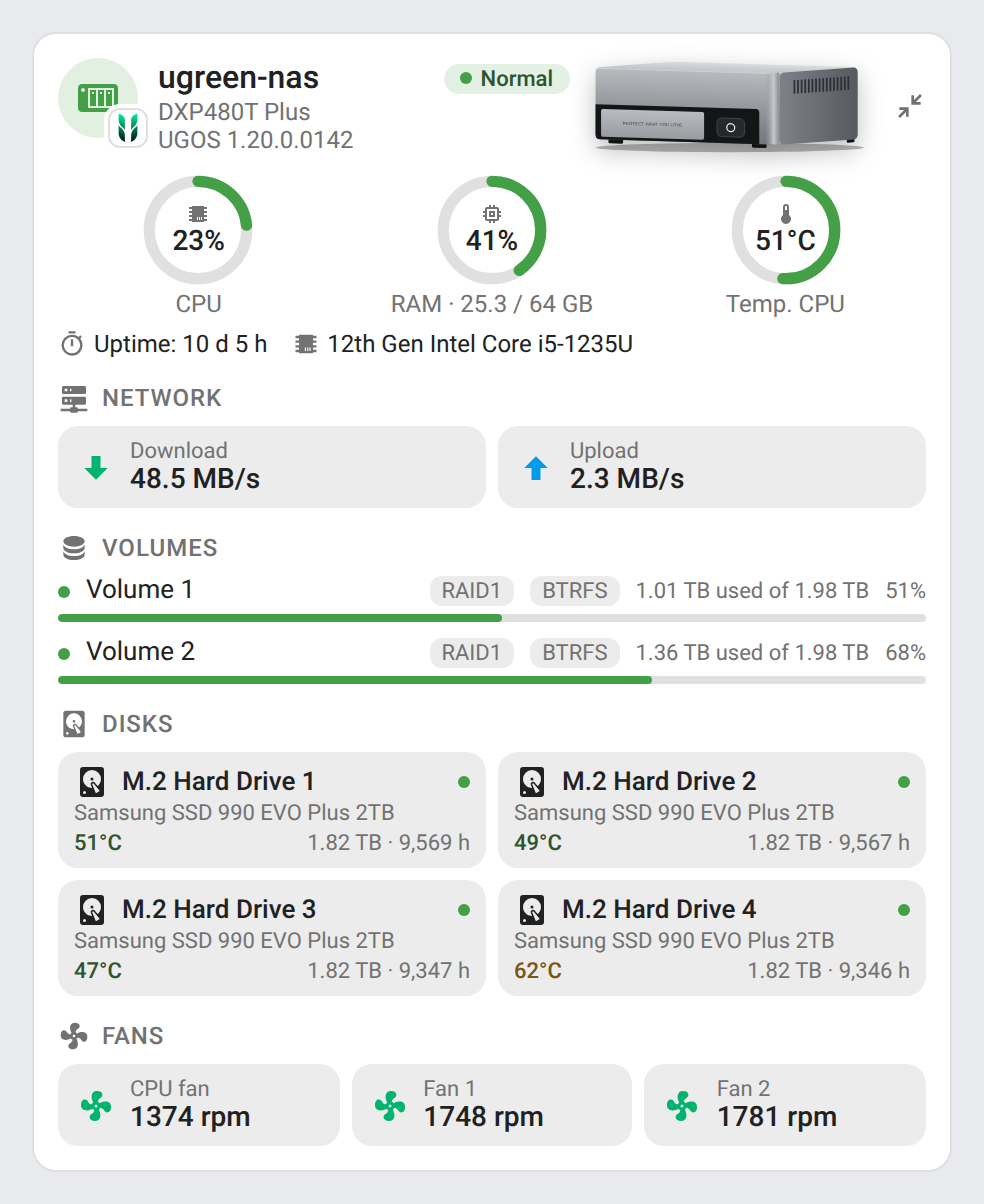
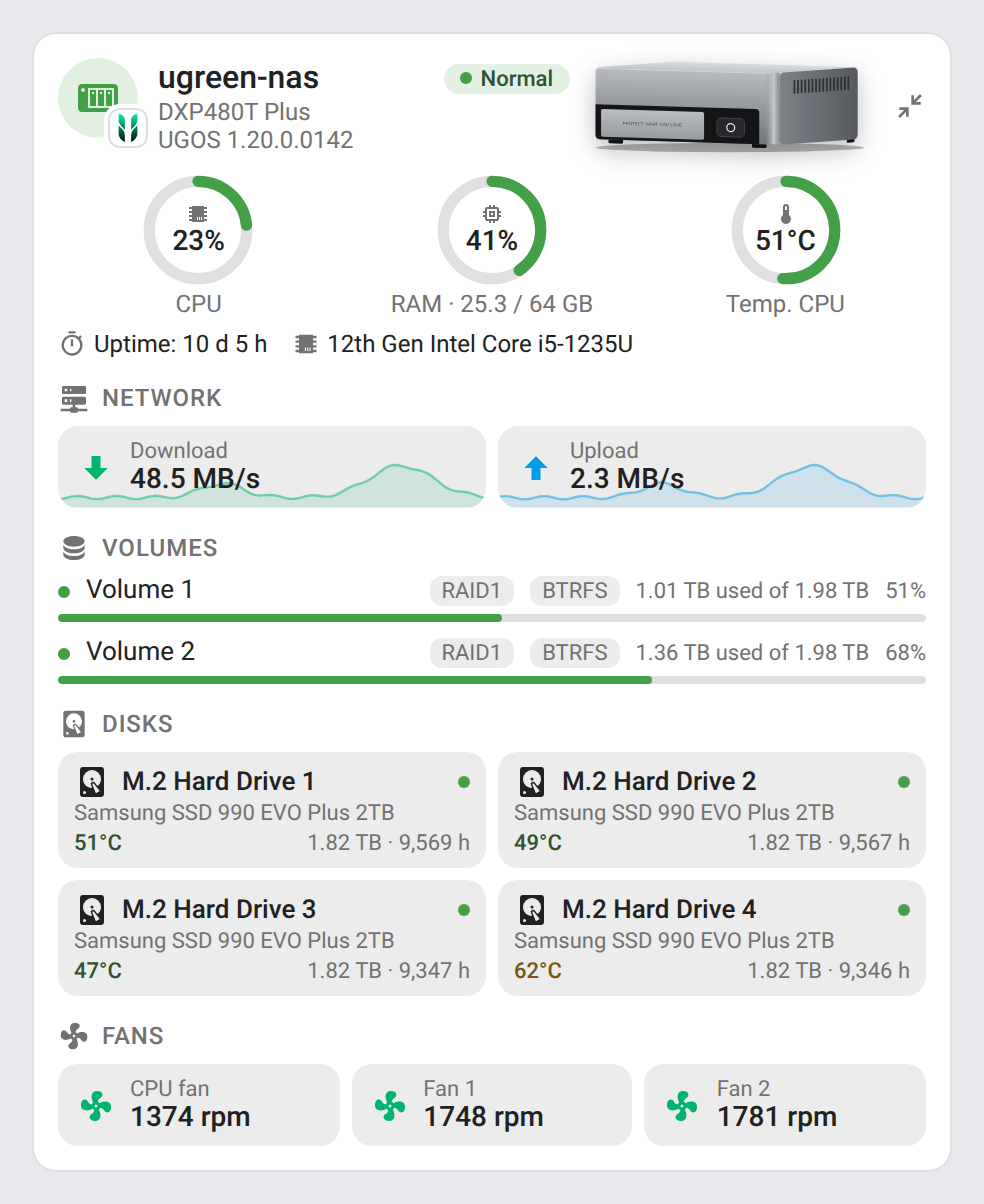
feat: 24 h history behind the network rate tiles (#60)
The full card draws the last 24 hours of download / upload behind each
network tile.

- Recorder `statistics_during_period`, 5-minute means, refreshed every 5
minutes (retries after 1 min on error)
- `show_history: false` turns it off (editor toggle, 22 languages)
- Screenshot mock answers the statistics query
- Version 1.15.0

---
_Generated by [Claude
Code](https://claude.ai/code/session_01F4sAn1Ek4h88w9whpdhjW8)_

---------

Changed region(s): [[0.061, 0.3688, 0.4878, 0.4302], [0.5183, 0.3688, 0.9451, 0.4302]]

diff --git a/src/nas-card.js b/src/nas-card.js
@@ -66,6 +66,7 @@ const STRINGS = {
     show_volumes: "Show volumes",
     show_disks: "Show disks",
     show_fans: "Show fans",
+    show_history: "Show 24 h rate history",
     show_storage: "Show storage",
     zoom: "Zoom button",
     zoom_helper: "Switches the mini card to the full card and back",
@@ -116,6 +117,7 @@ const STRINGS = {
     show_volumes: "Afficher les volumes",
     show_disks: "Afficher les disques",
     show_fans: "Afficher les ventilateurs",
+    show_history: "Afficher l’historique 24 h des débits",
     show_storage: "Afficher le stockage",
     zoom: "Bouton zoom",
     zoom_helper: "Bascule la mini-carte en carte complète, et inversement",
@@ -166,6 +168,7 @@ const STRINGS = {
     show_volumes: "Volumes anzeigen",
     show_disks: "Laufwerke anzeigen",
     show_fans: "Lüfter anzeigen",
+    show_history: "24-h-Verlauf der Raten anzeigen",
     show_storage: "Speicher anzeigen",
     zoom: "Zoom-Schaltfläche",
     zoom_helper: "Wechselt von der Mini-Karte zur vollständigen Karte und zurück",
@@ -216,6 +219,7 @@ const STRINGS = {
     show_volumes: "Mostrar los volúmenes",
     show_disks: "Mostrar los discos",
     show_fans: "Mostrar los ventiladores",
+    show_history: "Mostrar el historial de 24 h de las velocidades",
     show_storage: "Mostrar el almacenamiento",
     zoom: "Botón de zoom",
     zoom_helper: "Cambia la minitarjeta a la tarjeta completa y viceversa",
@@ -266,6 +270,7 @@ const STRINGS = {
     show_volumes: "Прикажи волумене",
     show_disks: "Прикажи дискове",
     show_fans: "Прикажи вентилаторе",
+    show_history: "Прикажи историју протока за 24 ч",
     show_storage: "Прикажи складиште",
     zoom: "Дугме за увећање",
     zoom_helper: "Пребацује мини картицу на пун приказ и назад",
@@ -316,6 +321,7 @@ const STRINGS = {
     show_volumes: "Prikaži volumene",
     show_disks: "Prikaži diskove",
     show_fans: "Prikaži ventilatore",
+    show_history: "Prikaži istoriju protoka za 24 č",
     show_storage: "Prikaži skladište",
     zoom: "Dugme za uvećanje",
     zoom_helper: "Prebacuje mini karticu na pun prikaz i nazad",
@@ -366,6 +372,7 @@ const STRINGS = {
     show_volumes: "Mostra i volumi",
     show_disks: "Mostra i dischi",
     show_fans: "Mostra le ventole",
+    show_history: "Mostra lo storico 24 h delle velocità",
     show_storage: "Mostra l'archiviazione",
     zoom: "Pulsante zoom",
     zoom_helper: "Passa dalla mini scheda alla scheda completa e viceversa",
@@ -416,6 +423,7 @@ const STRINGS = {
     show_volumes: "Volumes weergeven",
     show_disks: "Schijven weergeven",
     show_fans: "Ventilatoren weergeven",
+    show_history: "24-uursgeschiedenis van de snelheden weergeven",
     show_storage: "Opslag weergeven",
     zoom: "Zoomknop",
     zoom_helper: "Schakelt de minikaart over naar de volledige kaart en terug",
@@ -466,6 +474,7 @@ const STRINGS = {
     show_volumes: "Mostrar os volumes",
     show_disks: "Mostrar os discos",
     show_fans: "Mostrar as ventoinhas",
+    show_history: "Mostrar o histórico de 24 h dos débitos",
     show_storage: "Mostrar o armazenamento",
     zoom: "Botão de zoom",
     zoom_helper: "Alterna o minicartão para o cartão completo e vice-versa",
@@ -516,6 +525,7 @@ const STRINGS = {
     show_volumes: "Pokaż woluminy",
     show_disks: "Pokaż dyski",
     show_fans: "Pokaż wentylatory",
+    show_history: "Pokaż historię przepustowości z 24 h",
     show_storage: "Pokaż pamięć masową",
     zoom: "Przycisk powiększenia",
     zoom_helper: "Przełącza minikartę na pełną kartę i z powrotem",
@@ -566,6 +576,7 @@ const STRINGS = {
     show_volumes: "Afișează volumele",
     show_disks: "Afișează discurile",
     show_fans: "Afișează ventilatoarele",
+    show_history: "Afișează istoricul vitezelor pe 24 h",
     show_storage: "Afișează stocarea",
     zoom: "Buton de zoom",
     zoom_helper: "Comută minicardul la cardul complet și înapoi",
@@ -616,6 +627,7 @@ const STRINGS = {
     show_volumes: "Vis volumener",
     show_disks: "Vis diske",
     show_fans: "Vis blæsere",
+    show_history: "Vis 24-timers historik for hastigheder",
     show_storage: "Vis lager",
     zoom: "Zoomknap",
     zoom_helper: "Skifter fra minikortet til det fulde kort og tilbage",
@@ -666,6 +678,7 @@ const STRINGS = {
     show_volumes: "Visa volymer",
     show_disks: "Visa diskar",
     show_fans: "Visa fläktar",
+    show_history: "Visa 24 h-historik för hastigheter",
     show_storage: "Visa lagring",
     zoom: "Zoomknapp",
     zoom_helper: "Växlar minikortet till hela kortet och tillbaka",
@@ -716,6 +729,7 @@ const STRINGS = {
     show_volumes: "Показване на томовете",
     show_disks: "Показване на дисковете",
     show_fans: "Показване на вентилаторите",
+    show_history: "Показване на 24-часовата история на скоростите",
     show_storage: "Показване на хранилището",
     zoom: "Бутон за мащабиране",
     zoom_helper: "Превключва от мини картата към пълната карта и обратно",
@@ -766,6 +780,7 @@ const STRINGS = {
     show_volumes: "Показывать тома",
     show_disks: "Показывать диски",
     show_fans: "Показывать вентиляторы",
+    show_history: "Показать историю скоростей за 24 ч",
     show_storage: "Показывать хранилище",
     zoom: "Кнопка масштаба",
     zoom_helper: "Переключает мини-карточку на полную и обратно",
@@ -816,6 +831,7 @@ const STRINGS = {
     show_volumes: "Показувати томи",
     show_disks: "Показувати диски",
     show_fans: "Показувати вентилятори",
+    show_history: "Показати історію швидкостей за 24 год",
     show_storage: "Показувати сховище",
     zoom: "Кнопка масштабу",
     zoom_helper: "Перемикає міні-картку на повну картку й назад",
@@ -866,6 +882,7 @@ const STRINGS = {
     show_volumes: "Kötetek megjelenítése",
     show_disks: "Lemezek megjelenítése",
     show_fans: "Ventilátorok megjelenítése",
+    show_history: "Sebességek 24 órás előzményeinek megjelenítése",
     show_storage: "Tárhely megjelenítése",
     zoom: "Nagyítás gomb",
     zoom_helper: "A mini kártyáról a teljes kártyára vált és vissza",
@@ -916,6 +933,7 @@ const STRINGS = {
     show_volumes: "Zobraziť zväzky",
     show_disks: "Zobraziť disky",
     show_fans: "Zobraziť ventilátory",
+    show_history: "Zobraziť 24 h históriu rýchlostí",
     show_storage: "Zobraziť úložisko",
     zoom: "Tlačidlo priblíženia",
     zoom_helper: "Prepína minikartu na celú kartu a späť",
@@ -966,6 +984,7 @@ const STRINGS = {
     show_volumes: "Zobrazit svazky",
     show_disks: "Zobrazit disky",
     show_fans: "Zobrazit ventilátory",
+    show_history: "Zobrazit 24h historii rychlostí",
     show_storage: "Zobrazit úložiště",
     zoom: "Tlačítko přiblížení",
     zoom_helper: "Přepíná minikartu na celou kartu a zpět",
@@ -1016,6 +1035,7 @@ const STRINGS = {
     show_volumes: "Prikaži nosilce",
     show_disks: "Prikaži diske",
     show_fans: "Prikaži ventilatorje",
+    show_history: "Prikaži 24-urno zgodovino hitrosti",
     show_storage: "Prikaži shrambo",
     zoom: "Gumb za povečavo",
     zoom_helper: "Preklopi mini kartico na celotno kartico in nazaj",
@@ -1066,6 +1086,7 @@ const STRINGS = {
     show_volumes: "Rādīt sējumus",
     show_disks: "Rādīt diskus",
     show_fans: "Rādīt ventilatorus",
+    show_history: "Rādīt ātrumu 24 h vēsturi",
     show_storage: "Rādīt krātuvi",
     zoom: "Tālummaiņas poga",
     zoom_helper: "Pārslēdz mini karti uz pilno karti un atpakaļ",
@@ -1116,6 +1137,7 @@ const STRINGS = {
     show_volumes: "Εμφάνιση τόμων",
     show_disks: "Εμφάνιση δίσκων",
     show_fans: "Εμφάνιση ανεμιστήρων",
+    show_history: "Εμφάνιση ιστορικού ταχυτήτων 24 ωρών",
     show_storage: "Εμφάνιση χώρου αποθήκευσης",
     zoom: "Κουμπί μεγέθυνσης",
     zoom_helper: "Εναλλάσσει τη μίνι κάρτα στην πλήρη κάρτα και αντίστροφα",
@@ -1927,6 +1949,15 @@ const BASE_STYLE = `
 // A click inside a dialog (more-info opened from the card, say) is not a click outside the card.
 const inDialog = (ev) => ev.composedPath().some((n) => ["ha-more-info-dialog", "ha-dialog", "dialog"].includes(n.localName));
 
+// Sparkline of a series (24 h of rates), scaled from 0 to its peak; nothing under two points.
+const HIST_REFRESH = 5 * 60000;
+function spark(values) {
+  if (!values || values.length < 2) return "";
+  const peak = Math.max(...values) || 1;
+  const pts = values.map((v, i) => `${((i / (values.length - 1)) * 100).toFixed(2)},${(30 - (Math.max(0, v) / peak) * 28).toFixed(2)}`).join("L");
+  return `<svg class="spark" viewBox="0 0 100 30" preserveAspectRatio="none" aria-hidden="true"><path class="spark-a" d="M0,30L${pts}L100,30Z"/><path class="spark-l" d="M${pts}"/></svg>`;
+}
+
 class NasBase extends HTMLElement {
   constructor() {
     super();
@@ -2151,7 +2182,11 @@ const FULL_STYLE = `
   .facts .icon { width: 14px; height: 14px; color: var(--secondary-text-color); }
   .net { display: grid; grid-template-columns: repeat(2, 1fr); gap: 6px; }
   .tile { display: flex; align-items: center; gap: 8px; padding: 6px 10px; border-radius: 10px;
-          background: var(--secondary-background-color, rgba(127,127,127,.08)); }
+          background: var(--secondary-background-color, rgba(127,127,127,.08)); position: relative; overflow: hidden; }
+  .tile > :not(.spark) { position: relative; }
+  .tile .spark { position: absolute; left: 0; bottom: 0; width: 100%; height: 55%; pointer-events: none; }
+  .spark-a { fill: color-mix(in srgb, var(--c) 12%, transparent); }
+  .spark-l { fill: none; stroke: color-mix(in srgb, var(--c) 50%, transparent); stroke-width: 1.2; vector-effect: non-scaling-stroke; }
   .tile .icon { color: var(--c, var(--nas-accent)); }
   .tile .k { font-size: 11px; color: var(--secondary-text-color); }
   .tile .v { font-size: 14px; font-weight: 500; }
@@ -2277,8 +2312,9 @@ class NasCard extends NasBase {
     const sc = nas.scalars;
     if (!sc.lan_down && !sc.lan_up) return "";
     // A tile without its sensor (e.g. QNAP without upload rate) opens no more-info: not focusable.
+    const hist = this._config.show_history === false ? null : this._history([sc.lan_down, sc.lan_up].filter(Boolean));
     const tile = (id, cls, icon, k) =>
-      `<div class="tile ${id ? `clickable ${cls}" role="button" tabindex="0" data-entity="${id}"` : `${cls}"`}>${svgIcon(icon)}<div><div class="k">${k}</div><div class="v">${fmtRate(
+      `<div class="tile ${id ? `clickable ${cls}" role="button" tabindex="0" data-entity="${id}"` : `${cls}"`}>${spark(hist?.[id])}${svgIcon(icon)}<div><div class="k">${k}</div><div class="v">${fmtRate(
         toBps(this._s(id))
       )}</div></div></div>`;
     return `<div>
@@ -2288,6 +2324,34 @@ class NasCard extends NasBase {
         ${tile(sc.lan_up, "up", ICONS.up, this._t("upload"))}
       </div>
     </div>`;
+  }
+
+  // 24 h of 5-minute means from the recorder's statistics, fetched again every 5 minutes. Returns what is
+  // already there (nothing at first): the card renders again when the answer comes.
+  _history(ids) {
+    const key = ids.join(",");
+    if (key && this._hass.callWS && (this._histKey !== key || Date.now() - this._histAt > HIST_REFRESH)) {
+      this._histKey = key;
+      this._histAt = Date.now();
+      this._hass
+        .callWS({
+          type: "recorder/statistics_during_period",
+          start_time: new Date(Date.now() - 864e5).toISOString(),
+          statistic_ids: ids,
+          period: "5minute",
+          types: ["mean"],
+        })
+        .then((r) => {
+          if (this._histKey !== key) return;
+          this._hist = Object.fromEntries(ids.map((id) => [id, (r?.[id] || []).map((p) => p.mean).filter(Number.isFinite)]));
+          this._update();
+        })
+        // No statistics (sensor without state_class, recorder off): try again in a minute, no sparkline meanwhile.
+        .catch(() => {
+          this._histAt = Date.now() - HIST_REFRESH + 60000;
+        });
+    }
+    return this._histKey === key ? this._hist : null;
   }
 
   _volumes(nas) {
@@ -2654,7 +2718,7 @@ class NasEditorBase extends HTMLElement {
 
 class NasCardEditor extends NasEditorBase {
   static get toggles() {
-    return ["show_system", "show_network", "show_volumes", "show_disks", "show_fans"];
+    return ["show_system", "show_network", "show_history", "show_volumes", "show_disks", "show_fans"];
   }
 }
 

diff --git a/README.md b/README.md
@@ -30,7 +30,7 @@ The cards are built on top of the [UGREEN NAS integration](https://github.com/To
 - Two cards: a full **NAS Card** and a compact **NAS Mini Card**, of type `custom:nas-card` and `custom:nas-mini-card` (the former types `custom:ugreen-nas-card` and `custom:ugreen-nas-mini-card` keep working)
 - Three integrations: **UGREEN NAS**, **Synology DSM** and **QNAP** — automatic discovery, several NAS supported, brands can be mixed
 - CPU, RAM and temperature gauges, uptime and CPU model
-- Network download / upload rates
+- Network download / upload rates, with their last 24 hours drawn behind each tile (recorder statistics)
 - Volumes with RAID level, filesystem, status and used space
 - Disks with model, status, temperature, size and power-on hours
 - Fans speed (CPU fan and case fans, UGREEN)
@@ -149,6 +149,7 @@ language: fr
 | `brand_url` | both | Brand website | Website opened by a click on the header icon: [nas.ugreen.com](https://nas.ugreen.com), [synology.com](https://www.synology.com) or [qnap.com](https://www.qnap.com) by default |
 | `show_system` | full | `true` | CPU, RAM and temperature gauges, uptime, CPU model |
 | `show_network` | both | `true` | Network download / upload |
+| `show_history` | full | `true` | 24 h curve behind the download / upload tiles, from the recorder's 5-minute statistics (needs rate sensors with a `state_class`, the case for the three integrations) |
 | `show_volumes` | full | `true` | Volumes and used space |
 | `show_disks` | full | `true` | Disks details |
 | `show_fans` | full | `true` | Fans speed |

diff --git a/CHANGELOG.md b/CHANGELOG.md
@@ -1,5 +1,10 @@
 # Changelog
 
+## 1.15.0 - 2026-11-07
+
+### Features
+- Full card: the download and upload tiles draw their last 24 hours behind the rate (recorder 5-minute statistics, refreshed every 5 minutes). `show_history: false` turns it off (also in the visual editor).
+
 ## 1.14.2 - 2026-11-04
 
 ### Documentation
